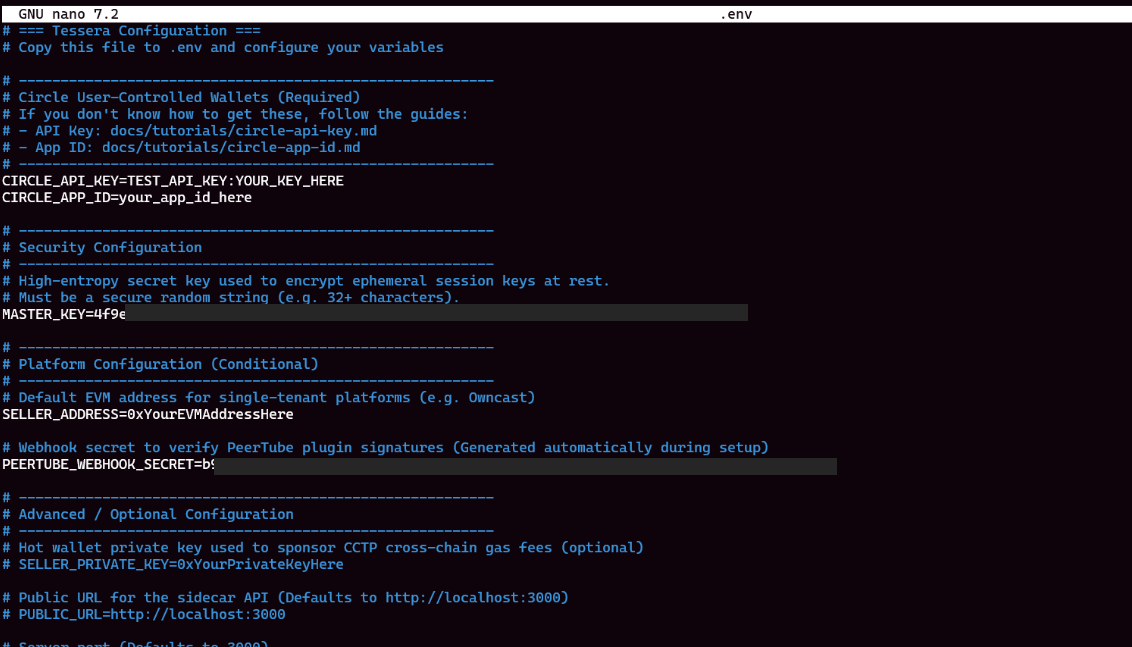
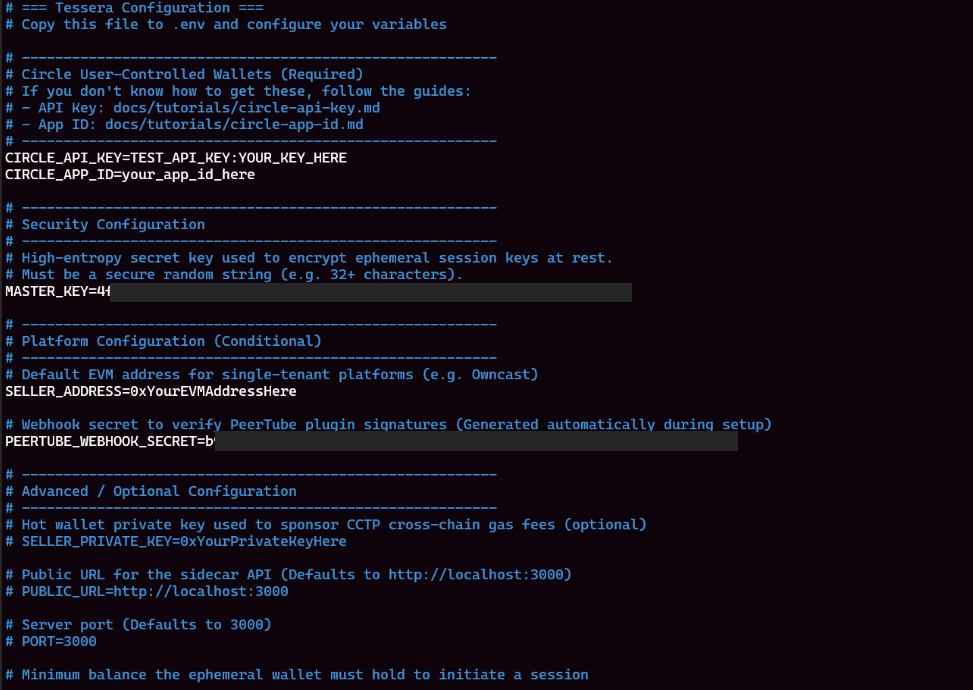
docs: update environment variable guide and example config

Changed region(s): [[0.0, 0.0, 1.0, 1.0]]

diff --git a/docs/getting-started/index.md b/docs/getting-started/index.md
@@ -42,9 +42,11 @@ nano .env
 
 ![.env configuration](../assets/nano_env.png)
 
-Fill in the **indispensable** variables required for the engine to run:
+Fill in the required variables to run the engine:
 - `CIRCLE_API_KEY`
 - `CIRCLE_APP_ID`
+- `SELLER_ADDRESS`
+- `SELLER_PRIVATE_KEY`
 
 ## 3. Deployment
 
